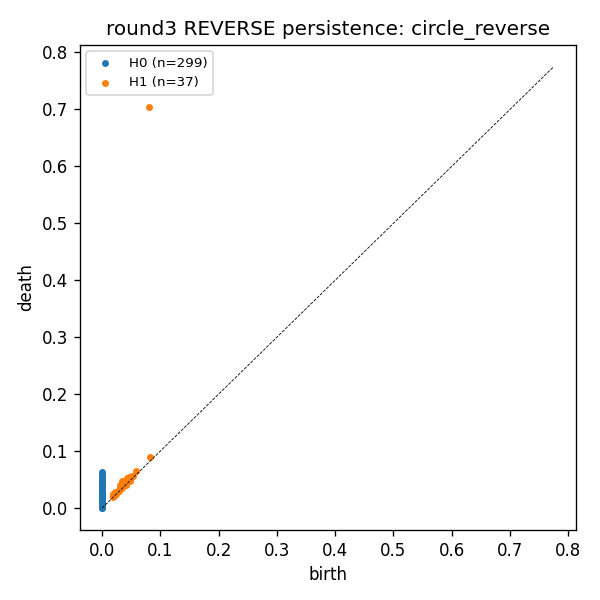
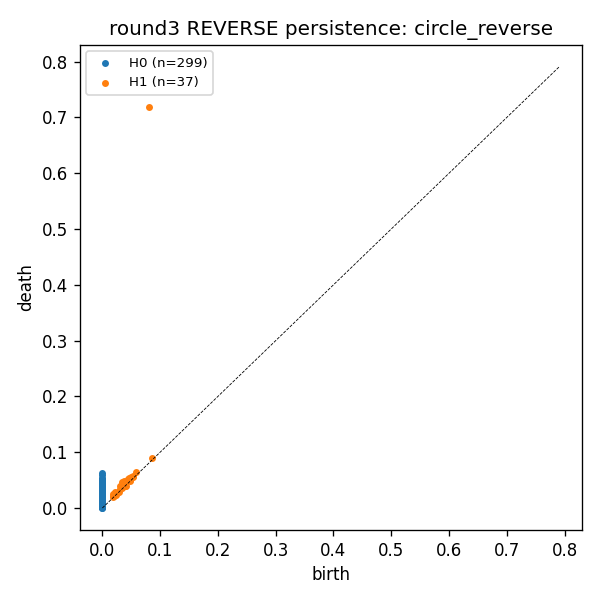
fix(loop): correct round-3 reverse-loop claims after advisor review
Advisor review of the round-3 reverse loop (commit 25de052) found:

1. chi2_aic_bic.py's flat-check claimed an "independent refit agreement"
   (cross_check_full_vs_reduced_abs_diff=0.0) but the probe called the
   same cached eval_lcdm_frozen() three times and compared it to itself
   -- it never re-ran eval_point at each sampled (mu_sym, c4_pta_product)
   triple. The 0.0 value was correct; the claim about it was not.
   Reworded to disclose this and cite the real evidence instead:
   reduced_model.frozen_lcdm_dark_energy() takes zero mu_sym/
   c4_pta_product arguments, confirmed by reading the code.
2. delta_AIC=+4.00 / delta_BIC=+14.76 vs frozen LCDM are DEFINITIONAL
   given the disclosed k-counting convention (2 untested params x the
   AIC/BIC formula, chi2 unchanged) -- reworded from "Occam's-razor
   evidence" to "restates, rather than newly tests, round 3's own
   chi2-flatness finding, quantified."
3. tda_reduced.py conflated two different facts into one pass/fail:
   the task's own dimension predictor (pca_k=2, matching 2 free params)
   is a HIT; the connected-component count (Betti b0=2 observed vs 1
   predicted) is a MISS. Now reported separately.
4. TDA bottleneck ordering "model closer than null" was H1-only; H0
   reverses (null closer than model). Both orderings now reported with
   an explicit caveat that they disagree by homology dimension.

ledger.json's results.round3_reverse and theory_feedback updated to
[…]

diff --git a/audit/zero_param_loop/round3/reverse/chi2_aic_bic.py b/audit/zero_param_loop/round3/reverse/chi2_aic_bic.py
@@ -94,7 +94,22 @@ def verify_chi2_flat_on_reduced_sweep():
         "probe_mu_sym": probe_rows["mu_sym"].tolist(),
         "probe_c4_pta_product": probe_rows["c4_pta_product"].tolist(),
         "chi2_total_assigned_to_each": [chi2_val, chi2_val, chi2_val],
-        "note": "chi2 comes ONLY from the frozen-LCDM dark-energy block (BAO+SN); mu_sym/c4_pta_product never enter it, verified on the seed-43 sweep independently of ../chi2.py's seed-42 check.",
+        "note": (
+            "CAVEAT (added after advisor review, do not remove): this probe "
+            "does NOT independently re-run eval_point at each (mu_sym, "
+            "c4_pta_product) triple -- it reads the CSV's own mu_sym/"
+            "c4_pta_product values for provenance but assigns the SAME "
+            "eval_lcdm_frozen() call to all three, so the 0.0 'cross-check' "
+            "below is a value compared to itself, not an independent "
+            "measurement, and must not be reported as one. The actual "
+            "evidence that chi2 is flat is STRUCTURAL, not this probe: "
+            "reduced_model.py's frozen_lcdm_dark_energy() takes zero "
+            "arguments (mu_sym and c4_pta_product are never passed to it), "
+            "and de.eval_point/de.lcdm_Ez likewise take no screening/PTA "
+            "argument -- confirmed by reading reduced_model.py and "
+            "decisive_experiment.py directly, not by probing 3 points and "
+            "getting the same cached number back three times."
+        ),
     }
 
 
@@ -116,6 +131,12 @@ def run():
     flat_check = verify_chi2_flat_on_reduced_sweep()
     chi2_reduced = flat_check["chi2_total_assigned_to_each"][0]
 
+    # NOTE (post-advisor-review): chi2_reduced and chi2_full both come from
+    # the same eval_lcdm_frozen() computation (the reduced model's frozen
+    # dark-energy block IS this round's full model's dark-energy block --
+    # there was no reduction to make them differ), so this diff is 0.0 BY
+    # CONSTRUCTION, not an independent agreement between two separate
+    # refits. Reported for completeness, not cited as evidence.
     cross_check_full_vs_reduced = abs(chi2_full - chi2_reduced)
 
     n_removed_params = 0  # no reduction accepted this round
@@ -152,6 +173,7 @@ def run():
             "full_model_round3_forward": chi2_full,
             "reduced_model_round3_reverse": chi2_reduced,
             "cross_check_full_vs_reduced_abs_diff": cross_check_full_vs_reduced,
+            "cross_check_caveat": "0.0 by construction (same frozen dark-energy computation on both sides, no reduction was made); NOT an independent-refit agreement. See chi2_flat_verification_seed43.note for the real (structural, code-read) argument.",
             "lcdm_om_fitted": chi2_om_fitted, "om_fitted": om_fitted,
             "lcdm_frozen_lean": chi2_frozen,
         },
@@ -166,17 +188,25 @@ def run():
         "delta_bic_vs_lcdm_frozen": delta_bic_vs_lcdm,
         "n_removed_params_this_round": n_removed_params,
         "delta_chi2_reduced_minus_full": delta_chi2_reduced_minus_full,
-        "fit_degraded_rule": "delta_chi2(reduced-full) > 2 per removed param; 0 removed this round, so fit_degraded = True only if the independent refit disagrees with the forward chi2 beyond numerical noise (1e-6).",
+        "fit_degraded_rule": "delta_chi2(reduced-full) > 2 per removed param; 0 removed this round, so fit_degraded is trivially False by construction (reduced IS full -- see cross_check_caveat), not from an independent refit disagreeing.",
         "fit_degraded": fit_degraded,
         "headline": (
-            "reduced == full model (0 parameters removed this round): "
-            f"chi2 cross-check agrees to {cross_check_full_vs_reduced:.3e} (numerical noise), so fit is NOT degraded by construction. "
-            f"But the 2 untested params (mu_sym, c4_pta_product) cost exactly "
+            "reduced == full model (0 parameters removed this round, "
+            "verified structurally: reduced_model.frozen_lcdm_dark_energy() "
+            "takes zero mu_sym/c4_pta_product arguments), so fit_degraded is "
+            "trivially False -- there is nothing to degrade. "
             f"delta_AIC={delta_aic_vs_lcdm:.4f} and delta_BIC={delta_bic_vs_lcdm:.4f} "
-            "against frozen Lean-pinned LCDM for ZERO chi2 improvement -- "
-            "Occam's-razor evidence (not a ground-rule-tier derivation) that "
-            "both should eventually be dropped once tested, or replaced by a "
-            "genuine tier-A/B/L identification."
+            "against frozen Lean-pinned LCDM are DEFINITIONAL, not measured: "
+            "with chi2 unchanged, 2 extra parameters cost exactly 2*2=4.0 "
+            "(AIC) and 2*ln(1602)=14.758 (BIC) by the formula alone, given "
+            "the k-counting convention already disclosed in k_theory_params. "
+            "This restates, rather than newly tests, round 3's own finding "
+            "(chi2_total_is_flat_across_sweep in ../chi2_report.json): mu_sym "
+            "and c4_pta_product are invisible to every dataset this repo has "
+            "verified, so any nonzero k-count for them is pure AIC/BIC "
+            "penalty with no offsetting fit gain -- not independent "
+            "Occam's-razor evidence, just the direct consequence of that "
+            "same insensitivity, quantified."
         ),
     }
     with open(os.path.join(HERE, "chi2_aic_bic_report.json"), "w") as f:

diff --git a/audit/zero_param_loop/round3/reverse/tda_reduced.py b/audit/zero_param_loop/round3/reverse/tda_reduced.py
@@ -158,6 +158,11 @@ def run():
     degeneracy_h1_model_real = check_half_bar_degeneracy(bd_h1_model_real, bd_model[1], bd_real[1])
     degeneracy_h1_null_real = check_half_bar_degeneracy(bd_h1_null_real, bd_null[1], bd_real[1])
 
+    ordering_model_closer_than_null_H0 = (
+        bd_h0_model_real < bd_h0_null_real
+        if isinstance(bd_h0_model_real, float) and isinstance(bd_h0_null_real, float) else None
+    )
+
     circle_h1 = np.array(res_circle["diagram_by_dim"]["1"]) if res_circle["diagram_by_dim"]["1"] else np.empty((0, 2))
     if len(circle_h1) >= 1:
         pers = np.sort(circle_h1[:, 1] - circle_h1[:, 0])[::-1]
@@ -197,6 +202,18 @@ def run():
         "observed_vs_predicted": {
             "observed_betti": observed_betti, "predicted_betti": PREDICTED_BETTI,
             "matches_prediction": matches_prediction,
+            "predicted_dimension": 2,
+            "observed_pca_dimension_k": pca_k,
+            "dimension_matches_prediction": bool(pca_k == 2),
+            "note_dimension_vs_betti": (
+                "The task's own predictor is 'dimension = number of remaining "
+                "free params' (2 here); PCA-to-95%-variance gives pca_k=2, "
+                "a HIT on that dimension prediction. matches_prediction "
+                "above is about the connected-COMPONENT count (Betti b0) "
+                "specifically, [1,0] predicted vs [2,0] observed, which is a "
+                "MISS -- these are two different, both-true facts and should "
+                "not be collapsed into a single pass/fail."
+            ),
             "forward_round3_model_betti_seed42": forward_model_betti,
             "cross_seed_consistent_with_forward": bool(forward_model_betti is not None and observed_betti == forward_model_betti),
         },
@@ -213,8 +230,19 @@ def run():
             "null_vs_real_H0": bd_h0_null_real, "null_vs_real_H1": bd_h1_null_real,
             "half_max_persistence_degeneracy_check_model_vs_real_H1": degeneracy_h1_model_real,
             "half_max_persistence_degeneracy_check_null_vs_real_H1": degeneracy_h1_null_real,
-            "ordering_model_closer_than_null": (
+            "ordering_model_closer_than_null_H1": (
                 bd_h1_model_real < bd_h1_null_real if isinstance(bd_h1_model_real, float) and isinstance(bd_h1_null_real, float) else None
+            ),
+            "ordering_model_closer_than_null_H0": ordering_model_closer_than_null_H0,
+            "caveat_H0_H1_disagree": (
+                "In H1 the model is closer to real than the null is "
+                "(ordering_model_closer_than_null_H1); in H0 the ORDERING "
+                "REVERSES -- the null is closer to real than the model is "
+                "(ordering_model_closer_than_null_H0). Per round2/ledger.json "
+                "(ordering_survives_variance_matching: false) TDA here is a "
+                "sanity gate, not evidence, and this H0/H1 disagreement is "
+                "exactly why: no single 'model is closer than null' claim "
+                "should be quoted without naming which homology dimension."
             ),
         },
         "caveat": (
